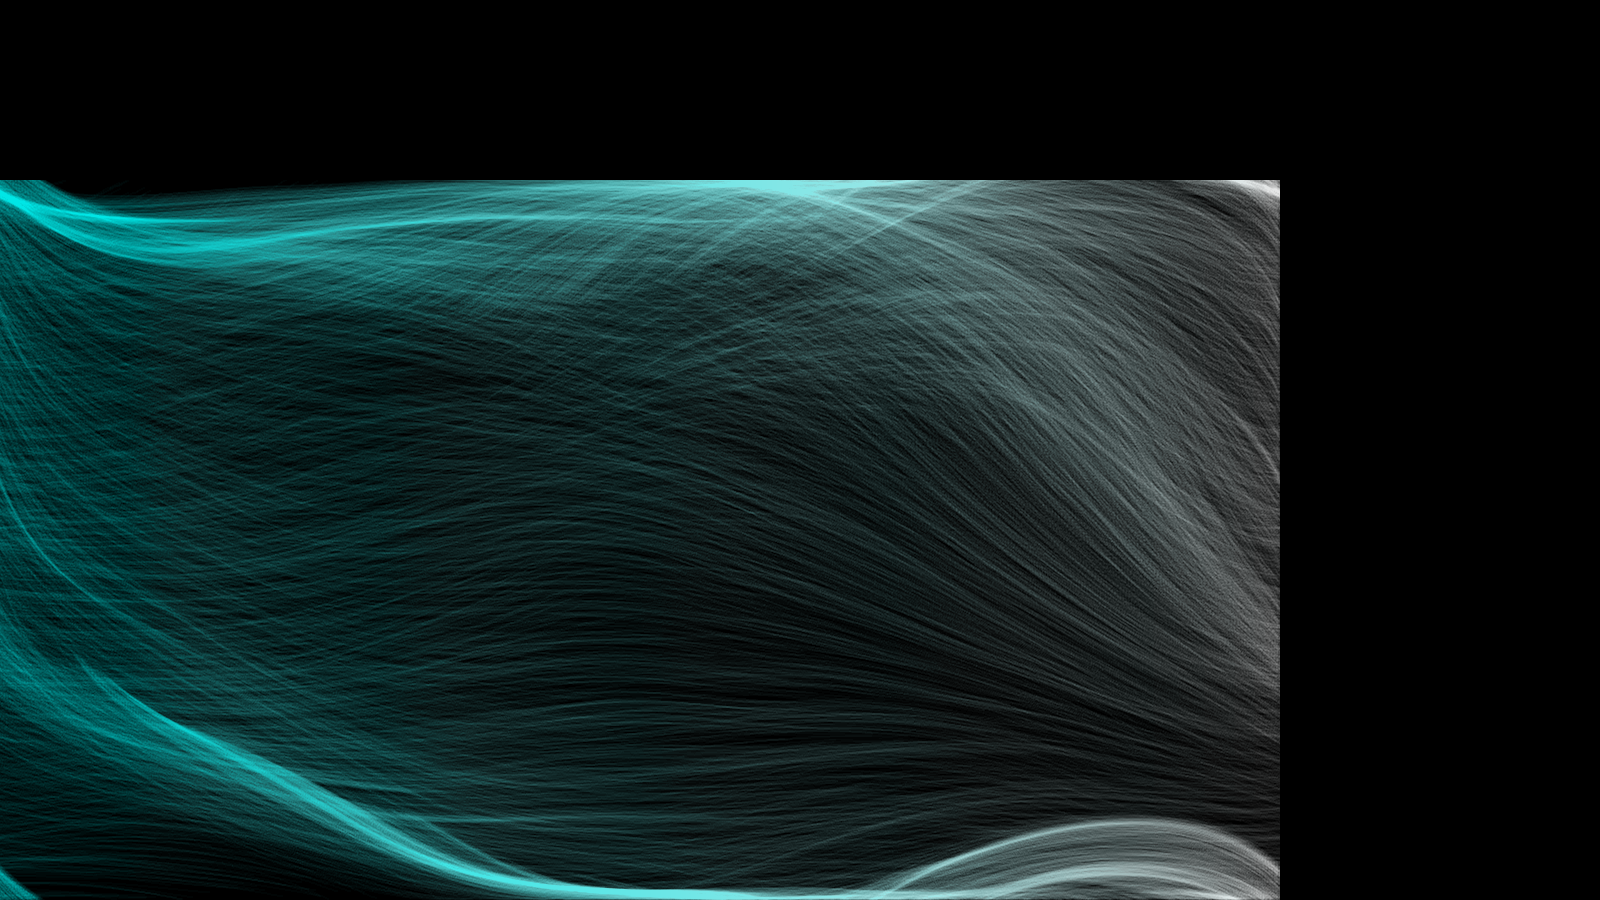
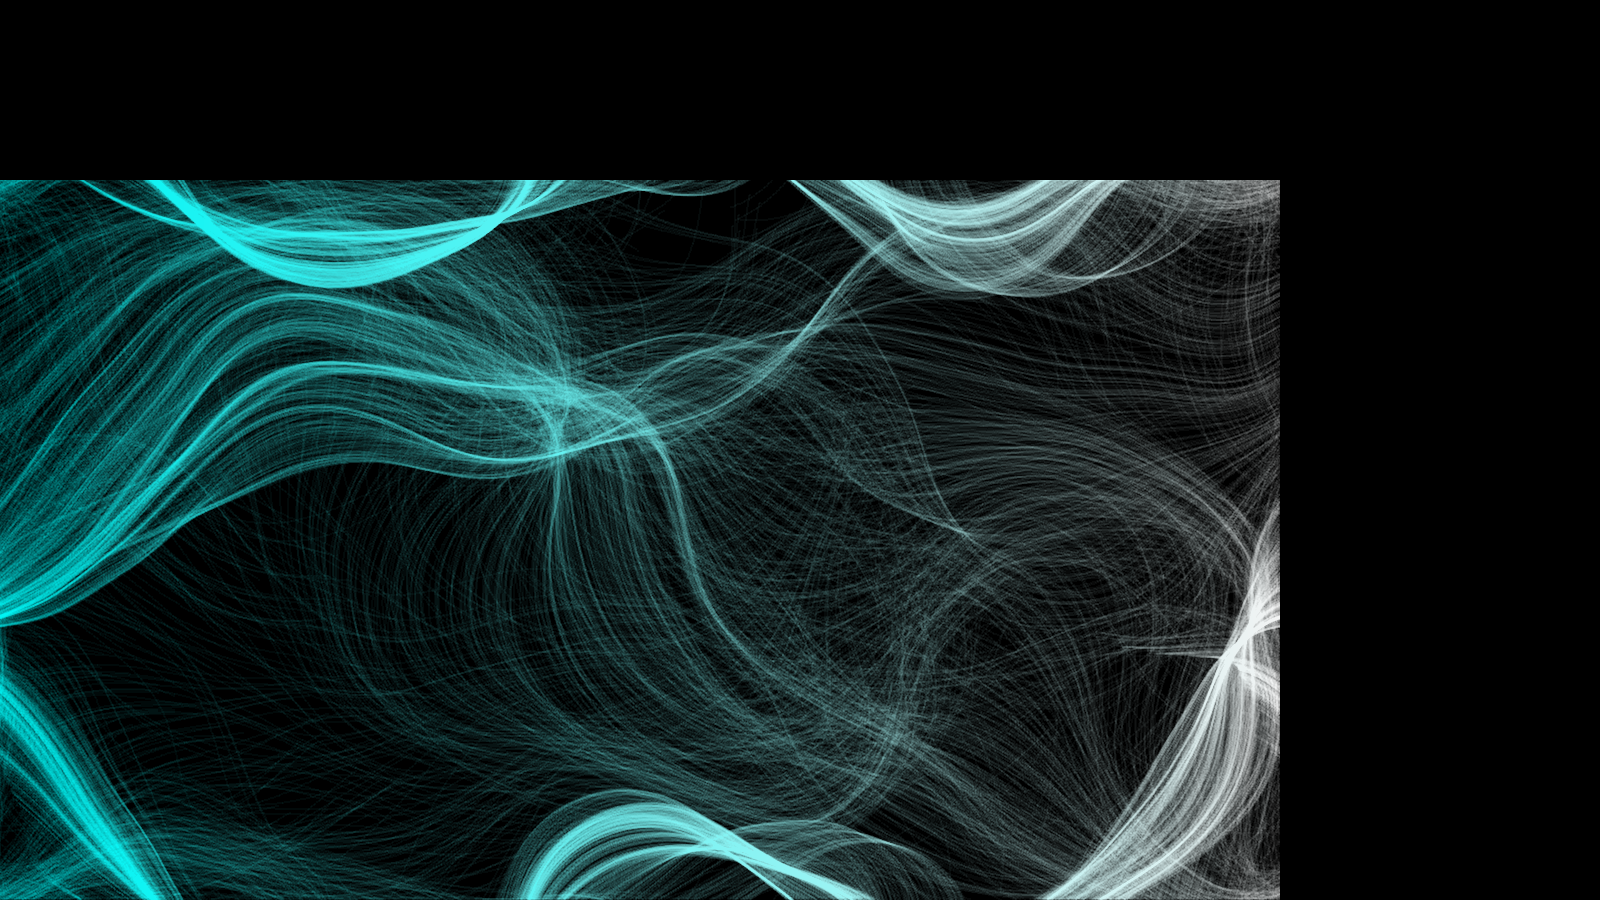
Basic flowfield completed! Yay!

diff --git a/Perlin Noise Flowfield/Perlin Noise Flowfield.cpp b/Perlin Noise Flowfield/Perlin Noise Flowfield.cpp
@@ -6,9 +6,9 @@
 #include <vector>
 #include <iostream>
 
-const int WIDTH = 1280;
-const int HEIGHT = 720;
-const int SCALE = 40;
+const int WIDTH = 1600;
+const int HEIGHT = 900;
+const int SCALE = 10;
 
 const int RENDER_WIDTH = WIDTH / SCALE + 1;
 const int RENDER_HEIGHT = HEIGHT / SCALE + 1;
@@ -17,25 +17,27 @@ std::vector<std::vector<Vector2>> flowfield;
 
 float flowfield_strength = 0.01f;
 
-const size_t particle_count = 5000;
+const size_t particle_count = 1000;
 float particle_speed = 1.0f;
+float particle_size = 1.0f;
+unsigned char particle_strength = 1;
 std::array<Particle, particle_count> particles;
 
 
 double noise_height = 0;
-double noise_detail = 6;
+int32_t noise_detail = 6;
 double x_mult = 0.02;
 double y_mult = 0.02;
 double z_mult = 0.02;
 
 int main()
 {
-    InitWindow(1280, 720, "Flowfield");
+    InitWindow(WIDTH, HEIGHT, "Flowfield");
 	SetConfigFlags(FLAG_MSAA_4X_HINT);
 	SetTargetFPS(60);
 
 	// Perlin noise setup
-	const siv::PerlinNoise::seed_type seed = 123456u;
+	const siv::PerlinNoise::seed_type seed = 6969u;
 	const siv::PerlinNoise perlin{ seed };
 
 
@@ -52,7 +54,7 @@ int main()
 		for (int y = 0; y < RENDER_HEIGHT; y++)
 		{
 			// Calculate each vector
-			double angle = Map(perlin.octave3D_01((x * x_mult), (y * y_mult), (noise_height * z_mult), noise_detail), 0, 1, 0, 359);
+			float angle = Map(perlin.octave3D_01((x * x_mult), (y * y_mult), (noise_height * z_mult), noise_detail), 0, 1, 0, 359);
 			Vector2 vec = Vec2FromAngle(angle);
 			vec = SetMagnitude(vec, 1);
 			flowfield[x].push_back(vec);
@@ -117,7 +119,7 @@ int main()
 			// Draw Particles
 			for (int i = 0; i < particles.size(); i++)
 			{
-				particles[i].Draw(1, {(unsigned char)Map(particles[i].pos.x, 0, WIDTH, 0, 255), 255, 255, 5});
+				particles[i].Draw(particle_size, {(unsigned char)Map(particles[i].pos.x, 0, WIDTH, 0, 255), 255, 255, 10});
 			}
 		}
 		EndDrawing();

diff --git a/Perlin Noise Flowfield/Particle.cpp b/Perlin Noise Flowfield/Particle.cpp
@@ -15,8 +15,8 @@ void Particle::Update(std::vector<std::vector<Vector2>> flowfield, float max_spe
 
 void Particle::Follow(std::vector<std::vector<Vector2>> flowfield, int SCALE)
 {
-    float x = floor(pos.x / SCALE);
-    float y = floor(pos.y / SCALE);
+    float x = floorf(pos.x / SCALE);
+    float y = floorf(pos.y / SCALE);
     Vector2 force = flowfield[x][y];
     ApplyForce(force);
 }
@@ -28,10 +28,10 @@ void Particle::ApplyForce(Vector2 force)
 
 void Particle::WrapAroundEdges(int WIDTH, int HEIGHT)
 {
-    if (pos.x > WIDTH) pos.x = 0;
-    if (pos.x < 0) pos.x = WIDTH;
-    if (pos.y > HEIGHT) pos.y = 0;
-    if (pos.y < 0) pos.y = HEIGHT;
+    if (pos.x > (float)WIDTH) pos.x = 0;
+    if (pos.x < 0) pos.x = (float)WIDTH;
+    if (pos.y > (float)HEIGHT) pos.y = 0;
+    if (pos.y < 0) pos.y = (float)HEIGHT;
 }
 
 void Particle::Draw(float size, Color color)
